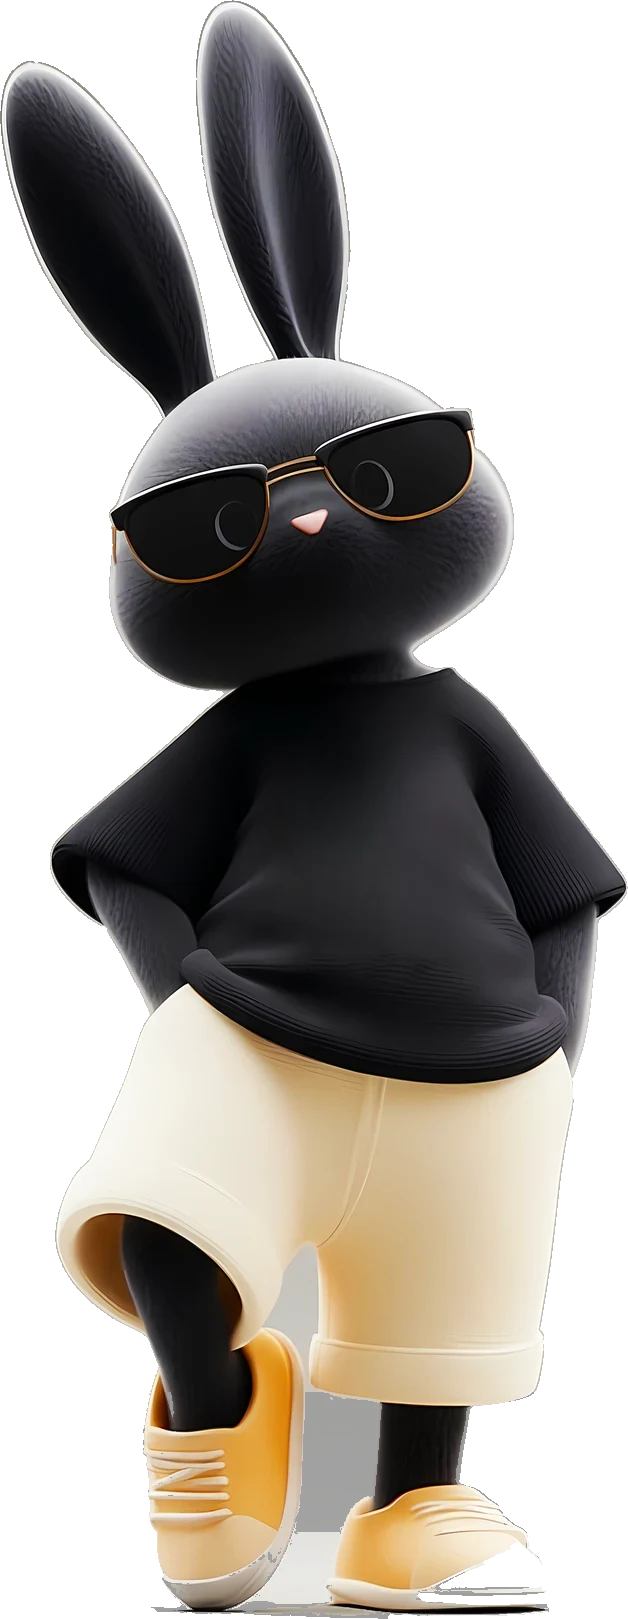
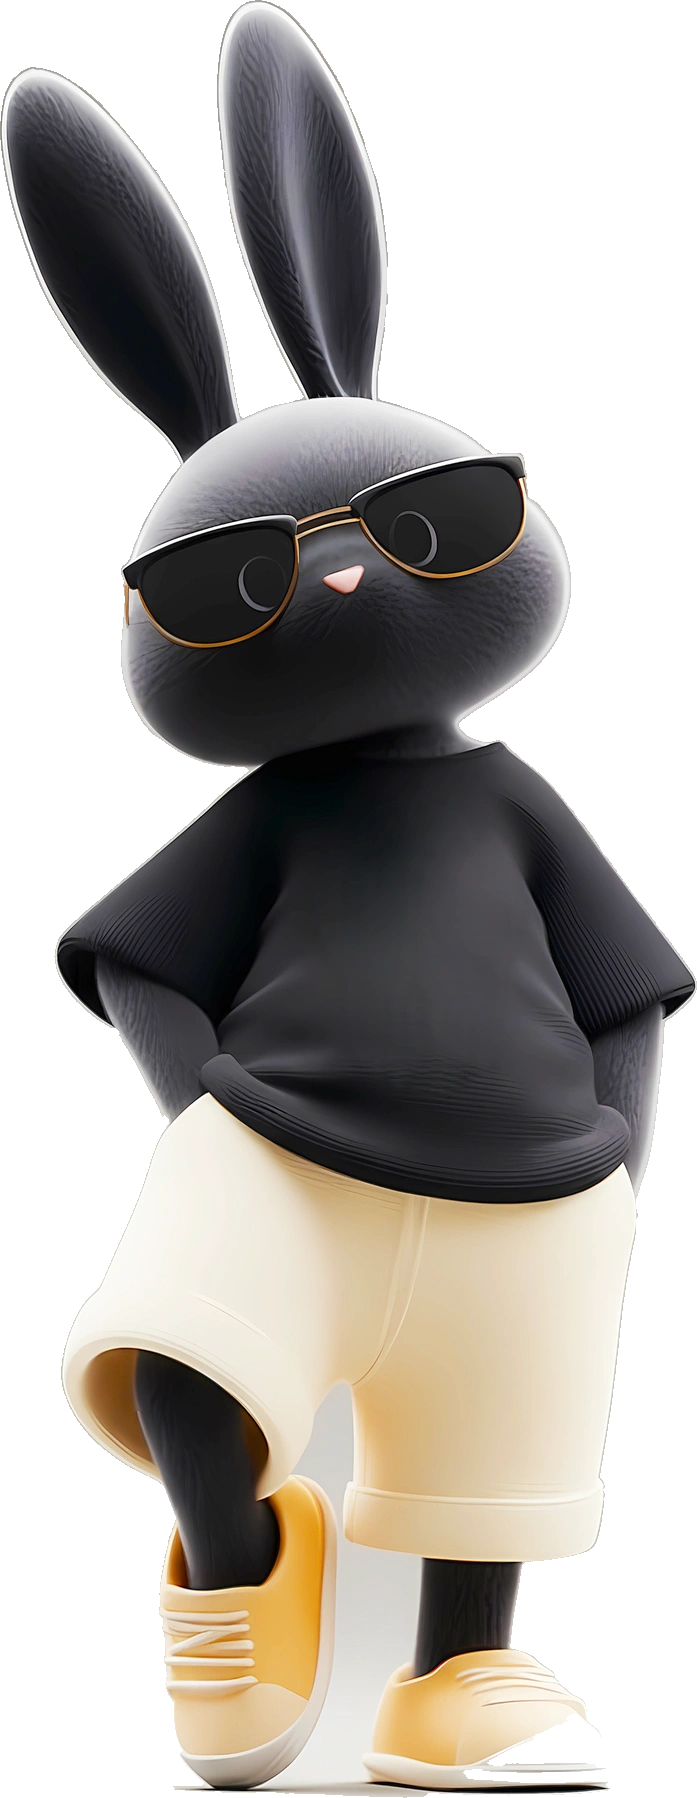
Mission 45: premium stills replace the video loops — brighter, sharper mascots
- all four poses re-keyed from the full-res originals (3072x5376 /
  4096x4096) at H=2000/1400, webp q95; gamma-1.25 lift on RGB brightens
  the black fur without clipping the cream shorts
- hero = standing bunny still (617x1877), generator = blue-sneaker
  bunny (547x1259, color-sampling key); peeks refreshed brighter
- EraBunny back to <img> slots (video/canPlayType logic dropped),
  cross-fade choreography + cursor parallax kept, slow 6.5s float adds
  life; slot ratios retuned (hero 0.165 half-width)
- webm loops remain in repo, unused

diff --git a/components/EraBunny.tsx b/components/EraBunny.tsx
@@ -1,32 +1,19 @@
 "use client";
 
-/* Mission 42 — the QRix bunny lives as film now.
-   Two transparent VP9 loops cut from the user's Kling render:
-   - walk loop: centre-stage in the hero
-   - idle close-up: left of the generator cards
-   No gliding — the mascot cross-FADES between states as you scroll
-   (fade out by mid-travel, swap position + clip, fade back in), then fades
-   away below the generator. Cursor gives a soft parallax. Browsers without
-   VP9-alpha get the static webp posters. */
+/* Mission 45 — the mascot as premium stills (user's picks, gamma-lifted,
+   keyed at full res). Two fixed slots cross-FADE between states on scroll:
+   standing bunny centre-stage in the hero, blue-sneaker bunny beside the
+   CREATE card. A slow float keeps them alive; the cursor adds parallax.
+   Reduced motion pins the hero still only. */
 
 import { useEffect, useRef, useState } from "react";
 
 const clamp = (v: number, a: number, b: number) => Math.min(b, Math.max(a, v));
 const ease = (t: number) => 1 - Math.pow(1 - t, 3);
 
-function useAlphaVideoOk() {
-  const [ok, setOk] = useState(true);
-  useEffect(() => {
-    const v = document.createElement("video");
-    setOk(v.canPlayType('video/webm; codecs="vp9"') !== "");
-  }, []);
-  return ok;
-}
-
 export default function EraBunny() {
   const ref = useRef<HTMLDivElement>(null);
   const [reduced, setReduced] = useState(false);
-  const alphaOk = useAlphaVideoOk();
 
   useEffect(() => {
     const mq = window.matchMedia("(prefers-reduced-motion: reduce)");
@@ -40,9 +27,9 @@ export default function EraBunny() {
     if (reduced) return;
     const el = ref.current;
     if (!el) return;
-    const walkEl = el.querySelector<HTMLElement>("[data-pose='walk']");
-    const idleEl = el.querySelector<HTMLElement>("[data-pose='idle']");
-    if (!walkEl || !idleEl) return;
+    const heroEl = el.querySelector<HTMLElement>("[data-pose='hero']");
+    const genEl = el.querySelector<HTMLElement>("[data-pose='gen']");
+    if (!heroEl || !genEl) return;
 
     let mx = 0, my = 0, cmx = 0, cmy = 0, raf = 0;
     const onMove = (e: PointerEvent) => {
@@ -66,19 +53,18 @@ export default function EraBunny() {
       cmx += (mx - cmx) * 0.06;
       cmy += (my - cmy) * 0.06;
 
-      // cross-fade, no travel: walk owns p<0.5, idle owns p>0.5
-      const walkO = clamp(1 - p * 2.2, 0, 1);
-      const idleO = clamp((p - 0.5) * 2.2, 0, 1) * tail;
-      walkEl.style.opacity = String(walkO);
-      idleEl.style.opacity = String(idleO);
-      walkEl.style.visibility = walkO <= 0.01 ? "hidden" : "visible";
-      idleEl.style.visibility = idleO <= 0.01 ? "hidden" : "visible";
+      const heroO = clamp(1 - p * 2.2, 0, 1);
+      const genO = clamp((p - 0.5) * 2.2, 0, 1) * tail;
+      heroEl.style.opacity = String(heroO);
+      genEl.style.opacity = String(genO);
+      heroEl.style.visibility = heroO <= 0.01 ? "hidden" : "visible";
+      genEl.style.visibility = genO <= 0.01 ? "hidden" : "visible";
 
       const drift = `translate3d(${cmx}px, ${cmy}px, 0) rotate(${cmx / 12}deg)`;
-      walkEl.style.transform = drift;
-      idleEl.style.transform = drift;
+      heroEl.style.transform = drift;
+      genEl.style.transform = drift;
 
-      el.style.visibility = (walkO <= 0.01 && idleO <= 0.01) ? "hidden" : "visible";
+      el.style.visibility = (heroO <= 0.01 && genO <= 0.01) ? "hidden" : "visible";
       raf = requestAnimationFrame(tick);
     };
 
@@ -92,25 +78,15 @@ export default function EraBunny() {
 
   return (
     <div ref={ref} className={`qx-bunny-fixed${reduced ? " qx-bunny-fixed--static" : ""}`} aria-hidden>
-      {/* hero: walking loop, centre stage */}
-      <div className="qx-bunny-slot qx-bunny-slot--hero" data-pose="walk">
-        {alphaOk && !reduced ? (
-          <video className="qx-bunny-media" src="/scenes/bunny-walk-loop.webm"
-            autoPlay muted loop playsInline poster="/scenes/bunny-walk-loop.webp" />
-        ) : (
-          // eslint-disable-next-line @next/next/no-img-element
-          <img className="qx-bunny-media" src="/scenes/bunny-hero.webp" alt="" draggable={false} />
-        )}
+      {/* hero: standing bunny, centre stage */}
+      <div className="qx-bunny-slot qx-bunny-slot--hero" data-pose="hero">
+        {/* eslint-disable-next-line @next/next/no-img-element */}
+        <img className="qx-bunny-media" src="/scenes/bunny-hero.webp" alt="" draggable={false} />
       </div>
-      {/* generator: idle close-up on the left */}
-      <div className="qx-bunny-slot qx-bunny-slot--gen" data-pose="idle" style={{ opacity: 0 }}>
-        {alphaOk && !reduced ? (
-          <video className="qx-bunny-media" src="/scenes/bunny-idle-loop.webm"
-            autoPlay muted loop playsInline poster="/scenes/bunny-idle-loop.webp" />
-        ) : (
-          // eslint-disable-next-line @next/next/no-img-element
-          <img className="qx-bunny-media" src="/scenes/bunny-idle-loop.webp" alt="" draggable={false} />
-        )}
+      {/* generator: blue-sneaker bunny beside the CREATE card */}
+      <div className="qx-bunny-slot qx-bunny-slot--gen" data-pose="gen" style={{ opacity: 0 }}>
+        {/* eslint-disable-next-line @next/next/no-img-element */}
+        <img className="qx-bunny-media" src="/scenes/bunny-blue.webp" alt="" draggable={false} />
       </div>
     </div>
   );

diff --git a/app/design-v2.css b/app/design-v2.css
@@ -893,17 +893,26 @@ html.light .qx-glitter { display: none; }
   position: absolute; will-change: transform, opacity;
   filter: drop-shadow(0 30px 55px rgba(90, 24, 0, 0.35));
 }
-/* hero: cream bunny loop, centre stage (520x1270 → width = h * 0.409) */
+/* hero: standing bunny still, centre stage (617x1877 → width = h * 0.329) */
 .qx-bunny-slot--hero {
   bottom: 0; height: min(70vh, 740px);
-  left: calc(50% - min(70vh, 740px) * 0.205);
+  left: calc(50% - min(70vh, 740px) * 0.165);
 }
-/* generator: small blue-sneaker bunny by the CREATE card (square clip) */
+/* generator: blue-sneaker bunny beside the CREATE card */
 .qx-bunny-slot--gen {
-  bottom: 16vh; height: min(44vh, 400px);
+  bottom: 15vh; height: min(48vh, 440px);
   left: 4.5vw;
 }
-.qx-bunny-media { height: 100%; width: auto; display: block; user-select: none; }
+.qx-bunny-media {
+  height: 100%; width: auto; display: block; user-select: none;
+  animation: qxBunnyFloat 6.5s ease-in-out infinite;
+}
+.qx-bunny-slot--gen .qx-bunny-media { animation-delay: -3s; }
+@keyframes qxBunnyFloat {
+  0%, 100% { translate: 0 0; }
+  50%      { translate: 0 -10px; }
+}
+@media (prefers-reduced-motion: reduce) { .qx-bunny-media { animation: none; } }
 
 /* smaller cousins living in lower sections */
 .qx-bunny-peek { position: absolute; bottom: -14px; z-index: 1; pointer-events: none; }
